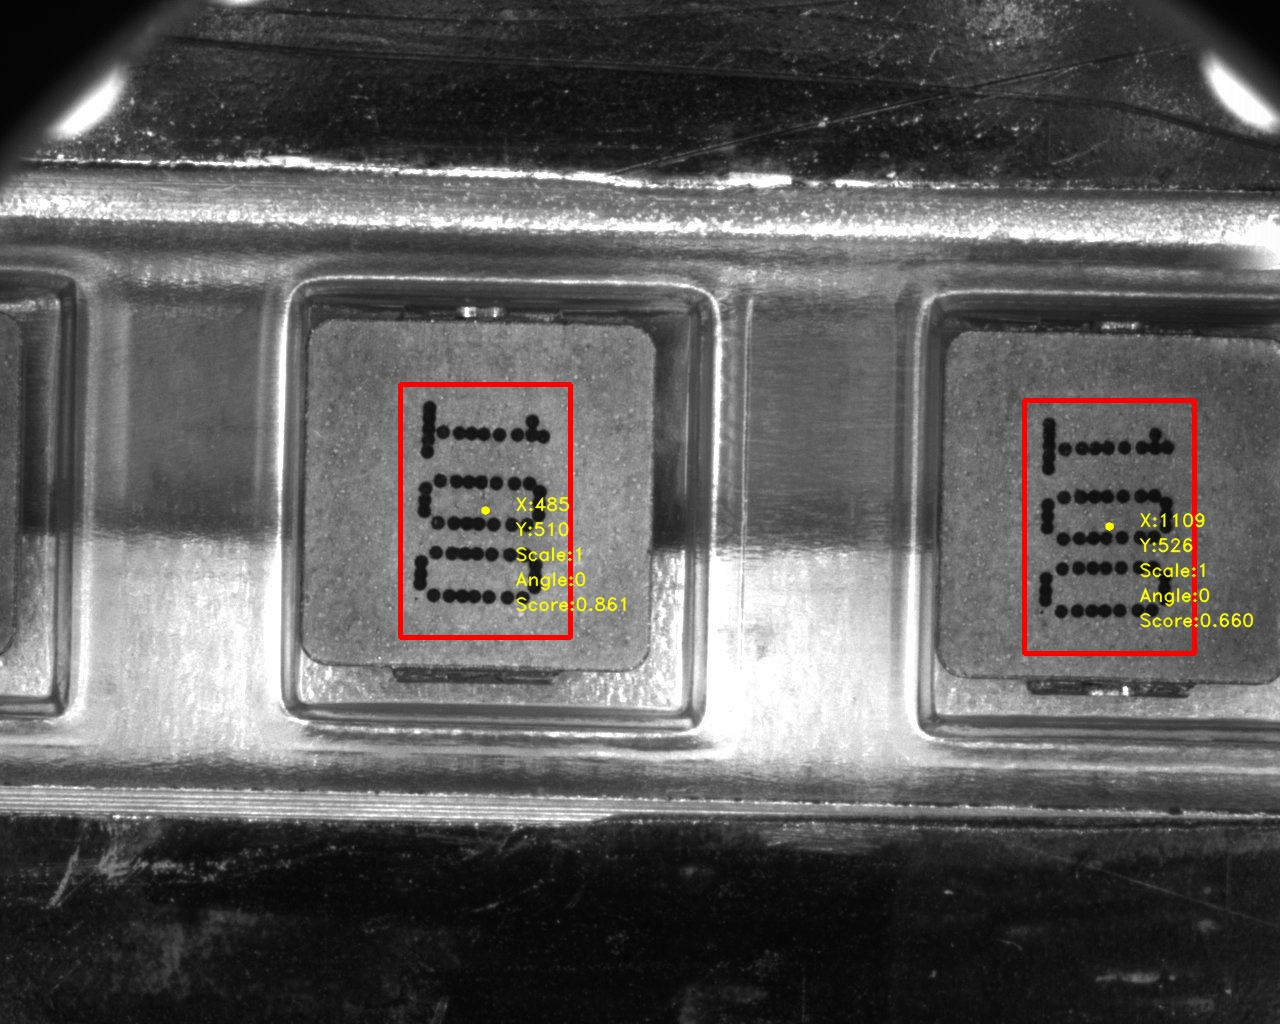
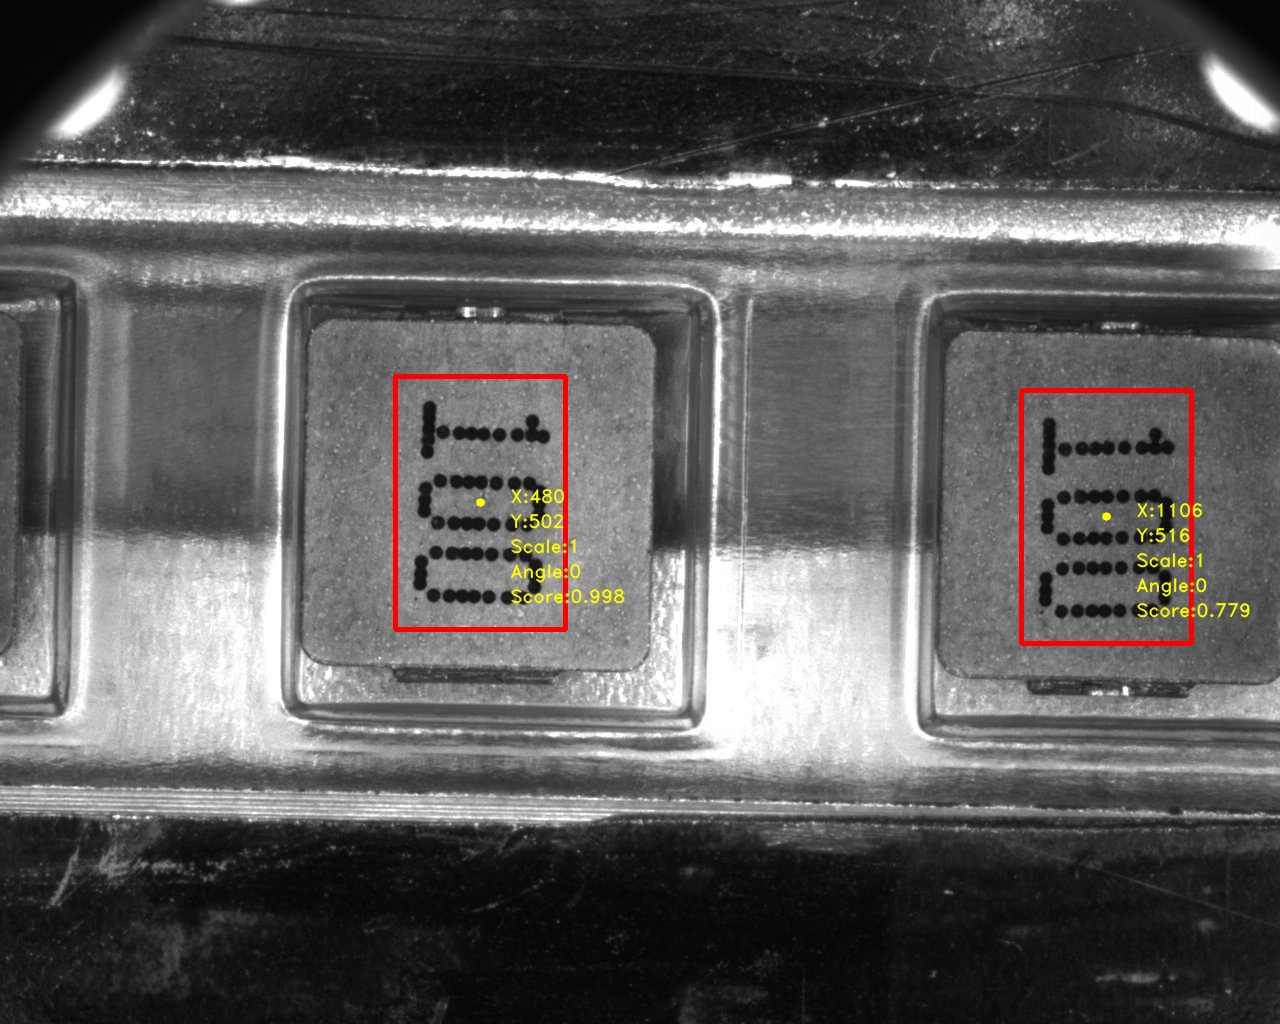
raw template matching

Changed region(s): [[0.2812, 0.3438, 0.5, 0.625], [0.7812, 0.375, 1.0, 0.6562]]

diff --git a/main.py b/main.py
@@ -19,8 +19,9 @@ def matching_100(img_path, thres=0.5, rot=0, scale=1, method=None):
 
     if method=="opencv":
         res = cv2.matchTemplate(img,tmp,cv2.TM_CCOEFF_NORMED)
-        mapping_origin_points = [i[0] for i in zip(np.where(res>thres))]
-        sim_scores = res[res>thres]
+        # small search 
+        local_max_points = find_opencv_local_max(res, thres)
+
         print(f"{img_path.split('/')[-1]} doing Texture Matching with OpenCV cost: {datetime.now()-start}")
     else:
         # Pyramid Down
@@ -31,18 +32,20 @@ def matching_100(img_path, thres=0.5, rot=0, scale=1, method=None):
         # Texture Matching
         resize_output = np.zeros((resize_img.shape[0]-resize_tmp.shape[0]+1, resize_img.shape[1]-resize_tmp.shape[1]+1))
         resize_matching = get_matching_result(resize_img, resize_tmp, resize_output)
-        print(f"{img_path.split('/')[-1]} doing Texture Matching cost: {datetime.now()-start}")
-    
+        
         # set threshold and get origin points
         points = [i for i in zip(np.where(resize_matching>thres))]
-        sim_scores = resize_matching[resize_matching>thres]
         mapping_origin_points = [i[0]*resize_ratio for i in points]
 
+        # small search 
+        local_max_points = get_small_matching_result(img, tmp, mapping_origin_points, resize_ratio)
+        print(f"{img_path.split('/')[-1]} doing Texture Matching cost: {datetime.now()-start}")
+    
+
     # plot bounding box
-    for i in range(len(mapping_origin_points[0])):
-        y = mapping_origin_points[0][i]
-        x = mapping_origin_points[1][i]
-        score = sim_scores[i]
+    for i in range(len(local_max_points)):
+        y, x = local_max_points[i][0]
+        score = local_max_points[i][1]
         center_x, center_y = x+(int(tmp.shape[1]/2)), y+(int(tmp.shape[0]/2))
         cv2.rectangle(plot_img, (x,y), (x+tmp.shape[1], y+tmp.shape[0]), (255,0,0) if method=="opencv" else (0,0,255) , 4)
         cv2.circle(plot_img, (center_x, center_y), 1, (0,255,255), 5, 16)
@@ -51,10 +54,10 @@ def matching_100(img_path, thres=0.5, rot=0, scale=1, method=None):
         cv2.putText(plot_img, f"Scale:{scale}", (center_x+30, center_y+50), cv2.FONT_HERSHEY_DUPLEX, 0.6, (0, 255, 255), 1, cv2.LINE_AA)
         cv2.putText(plot_img, f"Angle:{rot}", (center_x+30, center_y+75), cv2.FONT_HERSHEY_DUPLEX, 0.6, (0, 255, 255), 1, cv2.LINE_AA)
         cv2.putText(plot_img, f"Score:{score:.3f}", (center_x+30, center_y+100), cv2.FONT_HERSHEY_DUPLEX, 0.6, (0, 255, 255), 1, cv2.LINE_AA)
-    show(plot_img, "Image")
+    #show(plot_img, "Image")
     save_image(plot_img, file_name + f"_matching{f'_{method}' if method is not None else str()}", "data/100/")
 
-def matching_die(img_path, thres=0.8, rot=0, scale=1):
+def matching_die(img_path, thres=0.8, rot=0, scale=1, method=None):
     file_name = img_path.split('/')[-1].replace(".tif", "")
     start = datetime.now()
 
@@ -65,37 +68,45 @@ def matching_die(img_path, thres=0.8, rot=0, scale=1):
     
     # Template Rotation
     tmp = rot_image(tmp, rot, scale)
+    if method=="opencv":
+        res = cv2.matchTemplate(img,tmp,cv2.TM_CCOEFF_NORMED)
+        # small search 
+        local_max_points = find_opencv_local_max(res, thres)
 
-    # Pyramid Down
-    resize_ratio = 8
-    resize_img = cv2.resize(img, (int(img.shape[1]/resize_ratio), int(img.shape[0]/resize_ratio)))
-    resize_tmp = cv2.resize(tmp, (int(tmp.shape[1]/resize_ratio), int(tmp.shape[0]/resize_ratio)))
+        print(f"{img_path.split('/')[-1]} doing Texture Matching with OpenCV cost: {datetime.now()-start}")
+    else:
+        # Pyramid Down
+        resize_ratio = 8
+        resize_img = cv2.resize(img, (int(img.shape[1]/resize_ratio), int(img.shape[0]/resize_ratio)))
+        resize_tmp = cv2.resize(tmp, (int(tmp.shape[1]/resize_ratio), int(tmp.shape[0]/resize_ratio)))
 
-    # Texture Matching
-    resize_output = np.zeros((resize_img.shape[0]-resize_tmp.shape[0]+1, resize_img.shape[1]-resize_tmp.shape[1]+1))
-    resize_matching = get_matching_result(resize_img, resize_tmp, resize_output)
-    print(f"{img_path.split('/')[-1]} doing Texture Matching cost: {datetime.now()-start}")
-    
-    # set threshold and get origin points
-    points = [i for i in zip(np.where(resize_matching>thres))]
-    sim_scores = resize_matching[resize_matching>thres]
-    mapping_origin_points = [i[0]*resize_ratio for i in points]
+        # Texture Matching
+        resize_output = np.zeros((resize_img.shape[0]-resize_tmp.shape[0]+1, resize_img.shape[1]-resize_tmp.shape[1]+1))
+        resize_matching = get_matching_result(resize_img, resize_tmp, resize_output)
+        
+        # set threshold and get origin points
+        points = [i for i in zip(np.where(resize_matching>thres))]
+        mapping_origin_points = [i[0]*resize_ratio for i in points]
+
+        # small search 
+        local_max_points = get_small_matching_result(img, tmp, mapping_origin_points)
+        print(f"{img_path.split('/')[-1]} doing Texture Matching cost: {datetime.now()-start}")
+        
 
     # plot bounding box
-    for i in range(len(mapping_origin_points[0])):
-        y = mapping_origin_points[0][i]
-        x = mapping_origin_points[1][i]
-        score = sim_scores[i]
+    for i in range(len(local_max_points)):
+        y, x = local_max_points[i][0]  
+        score = local_max_points[i][1]
         center_x, center_y = x+(int(tmp.shape[1]/2)), y+(int(tmp.shape[0]/2))
-        cv2.rectangle(plot_img, (x,y), (x+tmp.shape[1], y+tmp.shape[0]), (0,0,255), 1)
+        cv2.rectangle(plot_img, (x,y), (x+tmp.shape[1], y+tmp.shape[0]), (255,0,0) if method=="opencv" else (0,0,255), 1)
         cv2.circle(plot_img, (center_x, center_y), 1, (0,255,255), 5, 16)
         cv2.putText(plot_img, f"X:{center_x}", (center_x+10, center_y), cv2.FONT_HERSHEY_DUPLEX, 0.3, (0, 255, 255), 1, cv2.LINE_AA)
         cv2.putText(plot_img, f"Y:{center_y}", (center_x+10, center_y+15), cv2.FONT_HERSHEY_DUPLEX, 0.3, (0, 255, 255), 1, cv2.LINE_AA)
         cv2.putText(plot_img, f"Scale:{scale}", (center_x+10, center_y+30), cv2.FONT_HERSHEY_DUPLEX, 0.3, (0, 255, 255), 1, cv2.LINE_AA)
         cv2.putText(plot_img, f"Angle:{rot}", (center_x+10, center_y+45), cv2.FONT_HERSHEY_DUPLEX, 0.3, (0, 255, 255), 1, cv2.LINE_AA)
         cv2.putText(plot_img, f"Score:{score:.3f}", (center_x+10, center_y+60), cv2.FONT_HERSHEY_DUPLEX, 0.3, (0, 255, 255), 1, cv2.LINE_AA)
-    show(plot_img, "Image")
-    save_image(plot_img, file_name + "_matching", "data/Die/")
+    #show(plot_img, "Image")
+    save_image(plot_img, file_name + f"_matching{f'_{method}' if method is not None else str()}", "data/Die/")
 
 def get_matching_result(img, tmp, output_img):
     tmp_u = np.mean(tmp)
@@ -118,6 +129,65 @@ def get_matching_result(img, tmp, output_img):
             output_img[i, j]= (inner)/np.sqrt(norm_img*norm_tmp)
     return output_img
 
+
+# 計算小範圍 matching
+def get_small_matching_result(img, tmp, points, resize_ratio=8):
+    tmp_u = np.mean(tmp)
+    origin_points = list()
+    for p in range(len(points[0])):
+        y_min, y_max = points[0][p] - resize_ratio, points[0][p] + resize_ratio
+        x_min, x_max = points[1][p] - resize_ratio, points[1][p] + resize_ratio
+        local_max = 0
+        for i in tqdm(range(y_min, y_max), desc=f"Small searching for ({points[0][p]},{points[1][p]})"):
+            for j in range(x_min, x_max):
+                #tmplate
+                inner = 0
+                norm_tmp = 0
+                norm_img = 0
+                # 計算符合template大小的原始影像平均值
+                img_sum = [img[i+ti,j+tj] for ti in range(tmp.shape[0]) for tj in range(tmp.shape[1])]
+                img_u = np.mean(img_sum)
+                for ti in range(tmp.shape[0]):
+                    for tj in range(tmp.shape[1]):
+                        t = tmp[ti, tj] - tmp_u
+                        im = img[i+ti,j+tj] - img_u
+                        inner += t*im 
+                        norm_tmp += np.power(t, 2)
+                        norm_img += np.power(im, 2)
+                local_value = (inner)/np.sqrt(norm_img*norm_tmp)
+                if local_value > local_max:
+                    local_max = local_value
+                    best_point = (i, j)
+        origin_points.append([best_point, local_max])
+    return origin_points
+
+# find opencv local maximum
+def find_opencv_local_max(res, thres, ignore_number=30):
+    points = [i[0] for i in zip(np.where(res>thres))]
+    scores = res[res>thres]
+    
+    # init cluster
+    c_x = list()
+    ignore = 0
+    for pc in range(res.shape[1]):
+        if ignore==0:
+            if pc in points[1]:
+                c_x.append(pc)
+                ignore = ignore_number
+        else:
+            ignore-=1
+    # 按x先分群
+    cluster = {i:[(0,0), 0] for i in c_x}
+    for p in range(len(points[0])):
+        y, x = points[0][p], points[1][p]
+        s = scores[p]
+        # init cluster
+        for i in cluster.keys():
+            if abs(x-i)<30 and s>cluster[i][1]:
+                cluster[i] = [(y,x), s] 
+    
+    return [cluster[i] for i in cluster.keys()]
+    
 
 def show(image, Window_name="Image"):
     # 顯示圖片
@@ -160,11 +230,18 @@ def save_image(fig, figname, report_path):
     cv2.imwrite(f'{report_path}/{figname}.jpg', fig)
 
 if __name__=="__main__":
-    matching_100("data/100/100-1.jpg", thres=0.95, method="opencv")
+    matching_100("data/100/100-1.jpg", thres=0.7, method="opencv")
+    matching_100("data/100/100-2.jpg", thres=0.7, method="opencv")
+    matching_100("data/100/100-3.jpg", thres=0.7, method="opencv")
+    matching_100("data/100/100-4.jpg", thres=0.6, method="opencv")
+
     matching_100("data/100/100-1.jpg")
     matching_100("data/100/100-2.jpg", thres=0.4, rot=1)
     matching_100("data/100/100-3.jpg")
     matching_100("data/100/100-4.jpg")
+
+    matching_die("data/Die/Die1.tif", thres=0.7, method="opencv")
+    matching_die("data/Die/Die2.tif", thres=0.7, method="opencv")
 
     matching_die("data/Die/Die1.tif", thres=0.79, rot=2)
     matching_die("data/Die/Die2.tif", thres=0.747, rot=-2)

diff --git a/README.md b/README.md
@@ -4,6 +4,7 @@
 - [讀取檔案](#讀取檔案)
 - [調整模板影像](#調整模板影像)
 - [縮小影像](#縮小影像)
+- [小範圍計算](#小範圍計算)
 - [計算相似度](#計算相似度)
 - [定義閾值](#定義閾值)
 - [結果視覺化](#結果視覺化)
@@ -57,29 +58,16 @@ def rot_image(img, rot=0, scale=1):
 | 100 |  16 |
 | Die |  8 |
 
+## 小範圍計算
+當我們在降維的影像中找到相似度較高的數值時，需還原為原本影像的大小進行小範圍計算相似度。因還原影像本身存在著誤差，故搜索範圍此設計為按照所縮小倍數進行設定。
+```python
+get_small_matching_result(img, tmp, points, resize_ratio=8)
+```
+
 ## 計算相似度
 此次專案利用Texture Matching中 **Normalized Correlation Coeffiecient(NCC)** 來計算特徵相似度。
 ```python
-def get_matching_result(img, tmp, output_img):
-    tmp_u = np.mean(tmp)
-    for i in tqdm(range(output_img.shape[0])):
-        for j in range(output_img.shape[1]):
-            #tmplate
-            inner = 0
-            norm_tmp = 0
-            norm_img = 0
-            # 計算符合template大小的原始影像平均值
-            img_sum = [img[i+ti,j+tj] for ti in range(tmp.shape[0]) for tj in range(tmp.shape[1])]
-            img_u = np.mean(img_sum)
-            for ti in range(tmp.shape[0]):
-                for tj in range(tmp.shape[1]):
-                    t = tmp[ti, tj] - tmp_u
-                    im = img[i+ti,j+tj] - img_u
-                    inner += t*im 
-                    norm_tmp += np.power(t, 2)
-                    norm_img += np.power(im, 2)
-            output_img[i, j]= (inner)/np.sqrt(norm_img*norm_tmp)
-    return output_img
+get_matching_result(img, tmp, output_img):
 ```
 
 ## 定義閾值
@@ -97,24 +85,32 @@ def get_matching_result(img, tmp, output_img):
 ## 結果視覺化
 最後利用opencv.rectangle()等視覺化工具將結果進行輸出，得到成功辨識後的影像結果。
 - 100
-    - cost time
-        |  Data | My method | OpenCV | Data | My method | OpenCV |
-        | :---: |   :---:   | :---:  |:---: |   :---:   | :---:  |
-        | 100-1 |   0:00:04 | 0:00:00|100-2 |   0:00:04 | 0:00:00|
-        | 100-3 |   0:00:04 | 0:00:00|100-4 |   0:00:04 | 0:00:00|
+    - cost time(s)
+        |  Data | My method | OpenCV |
+        | :---: |   :---:   | :---:  |
+        | 100-1 |   593.04  | 0.42   |
+        | 100-2 |   0:00:04 | 0.41   |
+        | 100-3 |   0:00:04 | 0.40   |
+        | 100-4 |   0:00:04 | 0.40   |
+        
 
 <p float="left">
-     <img src="data/100/100-1_matching.jpg" width=400/> <img src="data/100/100-2_matching.jpg" width=400/>
-     <img src="data/100/100-3_matching.jpg" width=400/> <img src="data/100/100-4_matching.jpg" width=400/>
+     <img src="data/100/100-1_matching.jpg" width=400/> <img src="data/100/100-1_matching_opencv.jpg" width=400/>
+     <img src="data/100/100-2_matching.jpg" width=400/> <img src="data/100/100-2_matching_opencv.jpg" width=400/>
+     <img src="data/100/100-3_matching.jpg" width=400/> <img src="data/100/100-3_matching_opencv.jpg" width=400/>
+     <img src="data/100/100-4_matching.jpg" width=400/> <img src="data/100/100-4_matching_opencv.jpg" width=400/>
 </p>
+
 
 - Die
     - cost time
-        |  Data | My method | OpenCV | Data |  My method | OpenCV |
-        | :---: |   :---:   | :---:  |:---: |   :---:    | :---:  |
-        | Die-1 |   0:00:06 | 0:00:00|Die-2 |   0:00:06  | 0:00:00|
+        |  Data | My method | OpenCV |
+        | :---: |   :---:   | :---:  |
+        | Die-1 |   0:00:06 | 0:00:00|
+        | Die-2 |   0:00:06 | 0:00:00|
 
         
 <p float="left">
-     <img src="data/Die/Die1_matching.jpg" width=400/> <img src="data/Die/Die2_matching.jpg" width=400/>
+     <img src="data/Die/Die1_matching.jpg" width=400/> <img src="data/Die/Die1_matching_opencv.jpg" width=400/>
+     <img src="data/Die/Die2_matching.jpg" width=400/> <img src="data/Die/Die2_matching_opencv.jpg" width=400/>
 </p>
